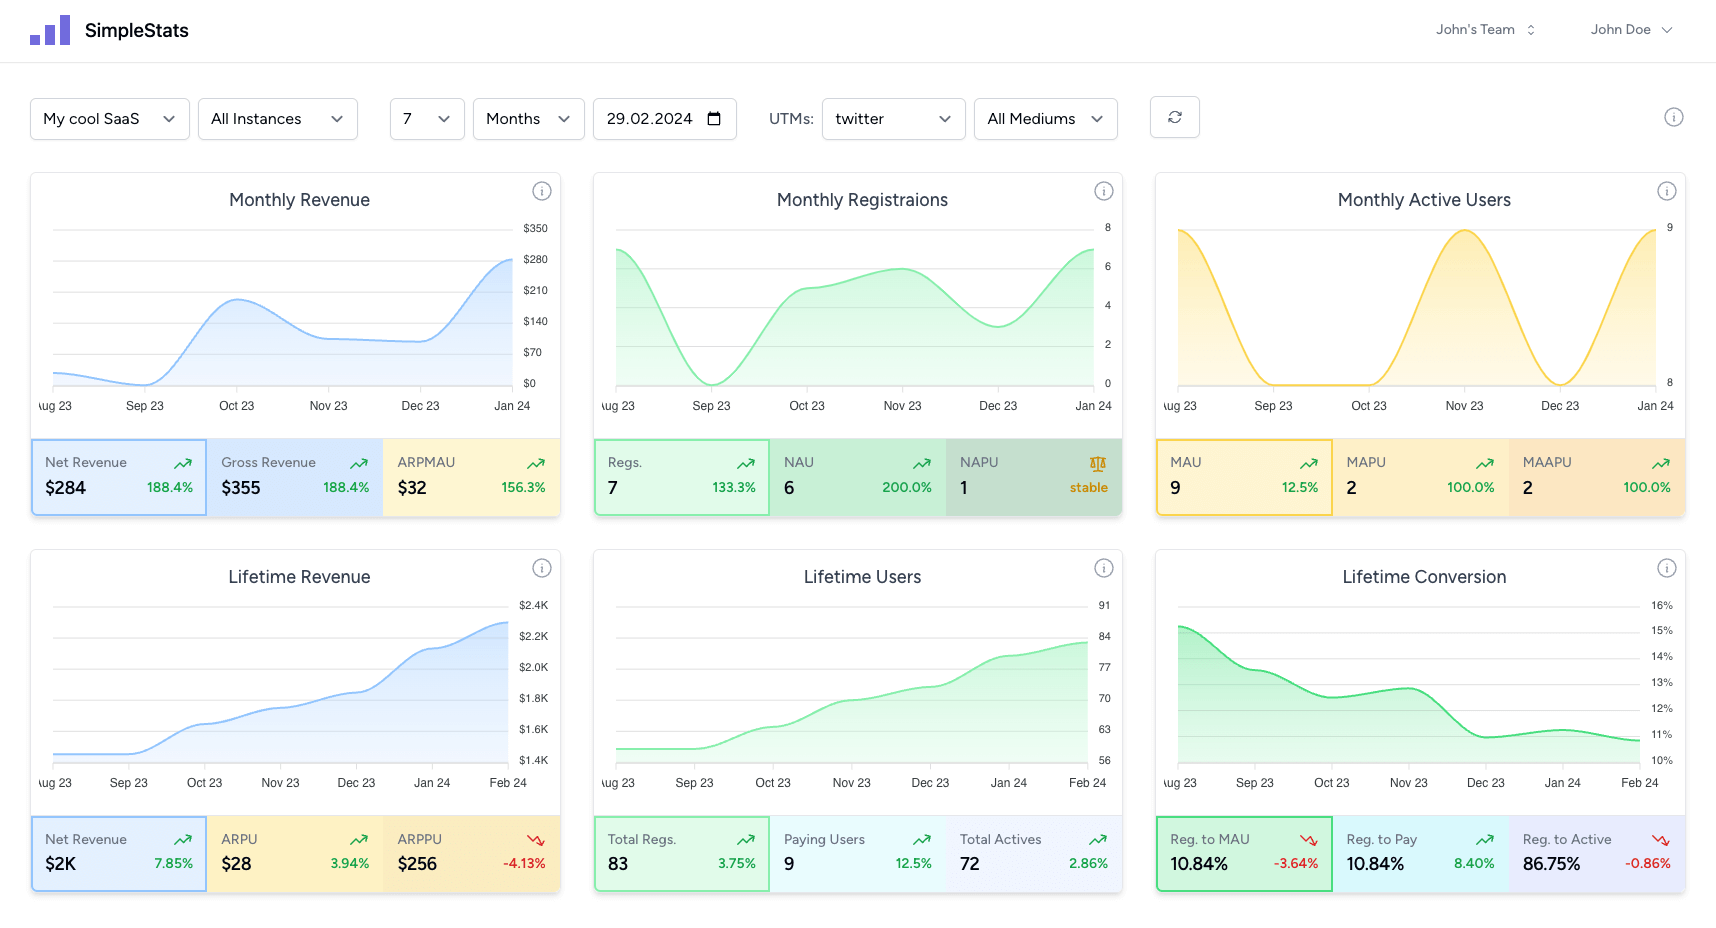
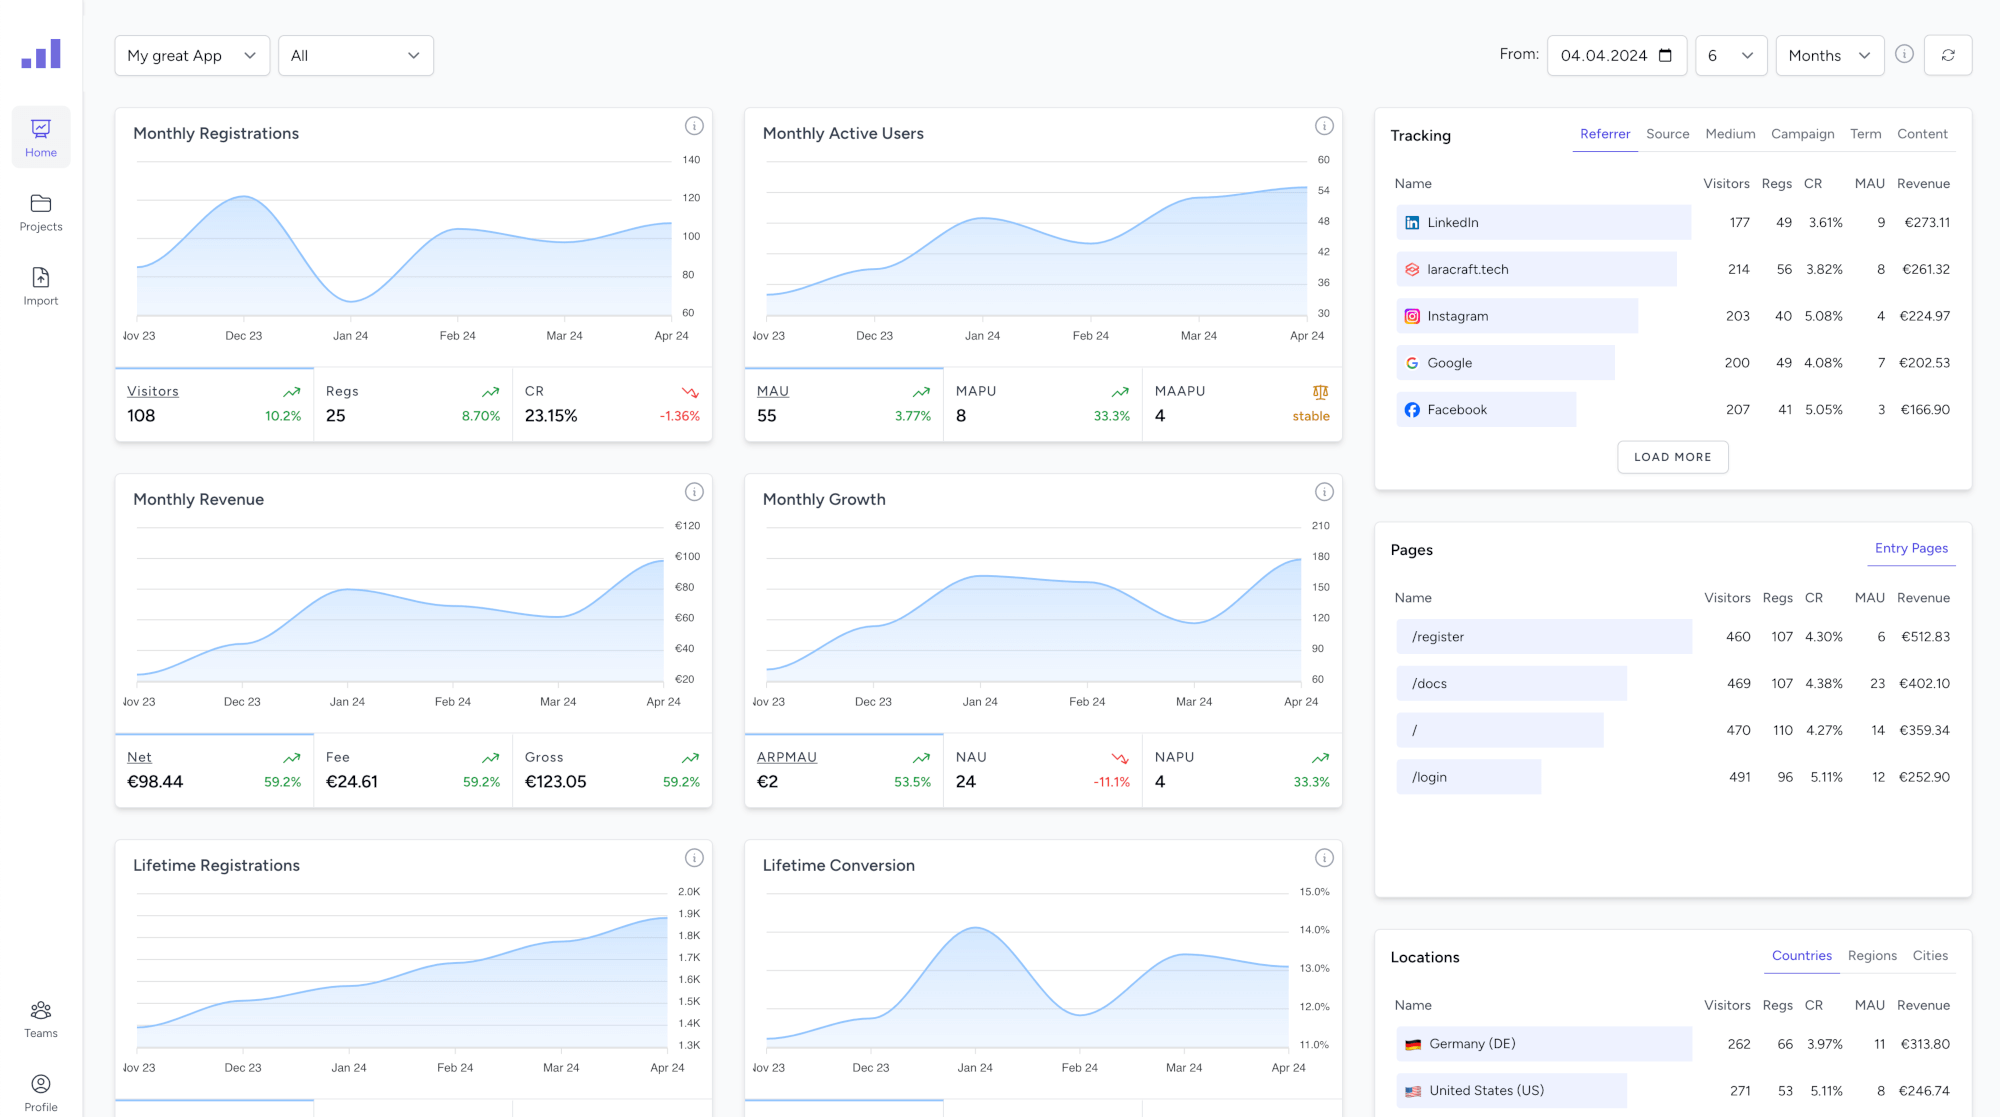
improved stuff

diff --git a/resources/js/Pages/Dashboard/Partials/StatsGroup.vue b/resources/js/Pages/Dashboard/Partials/StatsGroup.vue
@@ -94,8 +94,8 @@ onMounted(fetchData);
                 <table class="w-full text-sm">
                     <tr class="sticky top-0 bg-white font-medium text-gray-600">
                         <td class="p-1 py-1.5">Name</td>
-                        <td class="w-1 p-1.5 py-1.5 text-left">Regs</td>
                         <td class="w-1 p-1.5 py-1.5 text-left">Visitors</td>
+                        <td class="w-1 p-1.5 py-1.5 text-left">Regs</td>
                         <td class="w-1 p-1.5 py-1.5 text-left">CR</td>
                         <td class="w-1 p-1.5 py-1.5 text-right">{{ XAU(filters.rangeType) }}</td>
                         <td class="w-1 p-1.5 py-1.5 text-left">Revenue</td>
@@ -114,8 +114,8 @@ onMounted(fetchData);
                                 </Link>
                             </div>
                         </td>
-                        <td class="p-1.5 text-right">{{ formatNumber(Number(item.reg)) }}</td>
                         <td class="p-1.5 text-right">{{ formatNumber(Number(item.visitors)) }}</td>
+                        <td class="p-1.5 text-right">{{ formatNumber(Number(item.reg)) }}</td>
                         <td class="p-1.5 text-right">{{ formatPercent(Number(item.visitors) / Number(item.reg)) }}</td>
                         <td class="p-1.5 text-right">{{ formatNumber(Number(item.dau)) }}</td>
                         <td class="p-1.5 text-right">{{ formatCurrency(item.net, {}, $page.props.teamCurrency) }}</td>

diff --git a/resources/js/Pages/Home/Partials/Welcome.vue b/resources/js/Pages/Home/Partials/Welcome.vue
@@ -31,8 +31,8 @@ const appEnv = import.meta.env.VITE_APP_ENV;
 <!--                V2 Finally a lightweight and GDPR-compliant statistics tool for Laravel,<br>-->
 <!--                which quickly reveals marketing ROI and user conversion with a very simple setup.-->
 <!--                V3 Quickly reveal marketing ROI and<br>user conversion efficiency with a minimal setup.-->
-                Transcending mere counts of visits, views and page impressions and discover in-depth metrics<br class="hidden sm:block">
-                like Registrations, Daily Active Users, New Paying Users, campaign ROI and much more in just <a href="/docs" target="_blank" class="font-bold text-indigo-500">5 minutes</a>!
+                Transcending mere counts of visits and views and discover in-depth metrics like<br class="hidden sm:block">
+                Registrations, Daily Active Users, New Paying Users, campaign ROI and much more in just <a href="/docs" target="_blank" class="font-bold text-indigo-500">5 minutes</a>!
             </p>
             <Link v-if="$page.props.canRegister" :href="route('register')" class="inline-flex items-center justify-center px-5 py-3 mr-3 text-base font-medium text-center text-white rounded-lg bg-indigo-600 hover:bg-indigo-800 focus:ring-4 focus:ring-indigo-300 dark:focus:ring-indigo-900">
                 Get started

diff --git a/resources/js/Pages/Dashboard/Partials/StatsCharts.vue b/resources/js/Pages/Dashboard/Partials/StatsCharts.vue
@@ -56,8 +56,8 @@ const charts = {
             name: periodMap[props.rangeType] + ' Registrations',
             formatter: 'number',
             data: [
-                {key: 'REG', initialVisible: false, color: '#93c5fd', formatter: 'number',},
                 {key: 'VISITOR', initialVisible: false, color: '#93c5fd', formatter: 'number',},
+                {key: 'REG', initialVisible: false, color: '#93c5fd', formatter: 'number',},
                 {key: 'CR', initialVisible: false, color: '#93c5fd', formatter: 'percent',},
             ],
         },
@@ -94,8 +94,8 @@ const charts = {
             name: 'Lifetime Registrations',
             formatter: 'number',
             data: [
-                {key: 'REG', initialVisible: false, color: '#93c5fd', formatter: 'number',},
                 {key: 'VISITOR', initialVisible: false, color: '#93c5fd', formatter: 'number',},
+                {key: 'REG', initialVisible: false, color: '#93c5fd', formatter: 'number',},
                 {key: 'CR', initialVisible: false, color: '#93c5fd', formatter: 'percent',},
             ],
         },

diff --git a/resources/views/app.blade.php b/resources/views/app.blade.php
@@ -4,10 +4,10 @@
         <meta charset="utf-8">
         <meta name="viewport" content="width=device-width, initial-scale=1">
 
-        <meta name="description" content="The missing statistics tool for your Laravel application. Transcending mere counts of visits, views and page impressions and discover in-depth metrics like Registrations, Daily Active Users, New Paying Users, campaign ROI and much more!">
+        <meta name="description" content="The missing statistics tool for your Laravel application. Transcending mere counts of visits and views and discover in-depth metrics like Registrations, Daily Active Users, New Paying Users, campaign ROI and much more!">
 
         <meta property="og:title" content="{{ config('app.name', 'Laravel') }}">
-        <meta property="og:description" content="The missing statistics tool for your Laravel application. Transcending mere counts of visits, views and page impressions and discover in-depth metrics like Registrations, Daily Active Users, New Paying Users, campaign ROI and much more!">
+        <meta property="og:description" content="The missing statistics tool for your Laravel application. Transcending mere counts of visits and views and discover in-depth metrics like Registrations, Daily Active Users, New Paying Users, campaign ROI and much more!">
         <meta property="og:image" content="{{ asset('/images/screenshot.png') }}">
         <meta property="og:url" content="{{ asset('') }}">
         <meta property="og:type" content="website">
